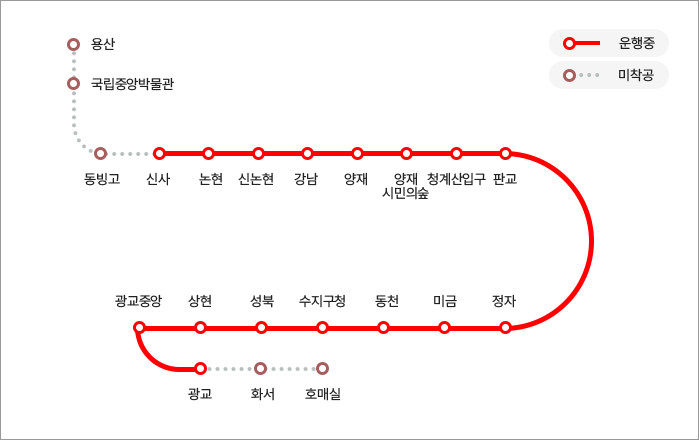
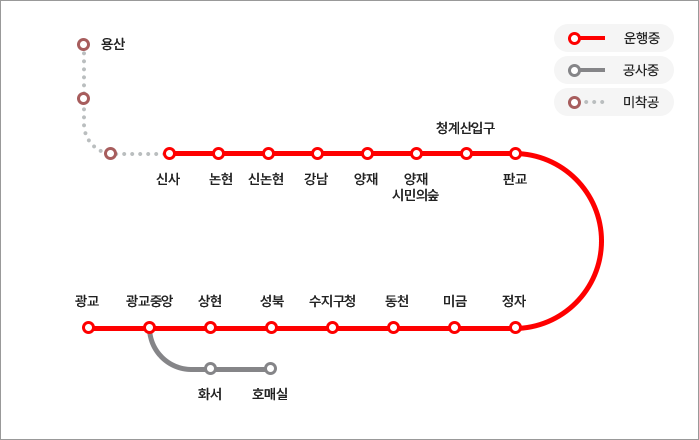
[SM260107_intro-65주년-원복] 마스터피스>신분당선: 이미지 및 문구 변경 & 영문 라인 수정

diff --git a/html/FD-01-01-05.html b/html/FD-01-01-05.html
@@ -135,7 +135,7 @@
                                 <li>
                                     <div class="tit_blue">3-2단계 구간</div>
                                     <p>
-                                        2026.01(착공 예정)<br>
+                                        착공 예정<br>
                                         용산~신사<br>
                                         (5.3km, 정거장 3개소)
                                     </p>
@@ -190,7 +190,7 @@
                                     판교, 정자를 연결하는 노선입니다. <br class="br_pc">
                                     사업비만 1조 6000억원에 이르는 대형 토목프로젝트로<br class="br_pc">
                                     준공과 동시에 소유권은 국가에 귀속되고, 운영법인인<br class="br_pc">
-                                    네오트랜스㈜가 30 년간 운영권을 확보하는 BTO방식의<br class="br_pc">
+                                    네오트랜스㈜가 30년간 운영권을 확보하는 BTO방식의<br class="br_pc">
                                     사업입니다.                                 
                                 </p>
                             
@@ -329,10 +329,9 @@
                             <div class="right">
                                 <p>
                                     한편 두산건설은 3-2단계인 용산~신사(5.3km, 정거장 3개소) 구간을
-                                    오는 26년 착공 예정이며, 광교~호매실(11.1km) 구간도 사업을 추진 중에 있습니다.
-                                    이미 개통하여 운영 중인 구간과 3-2구간 및 광교~호매실까지
+                                    착공 예정이며, 이미 개통하여 운영 중인 구간과 3-2구간 및 광교~호매실까지
                                     전 구간이 개통되면 신분당선전철은 총 연장 50km의
-                                    명실상부한 광역철도로서의 모습을 완성하였습니다. 
+                                    명실상부한 광역철도로서의 모습을 완성한다. 
                                 </p>
                             </div>
                         </section>  

diff --git a/html/en/EN-01-01-05.html b/html/en/EN-01-01-05.html
@@ -127,14 +127,14 @@
                                     <div class="tit_blue">Phase 3-1 </div>
                                     <p>
                                         2016.08~2022.05<br>
-                                        Sinsa-Gangnam<br>
+                                        Sinsa~Gangnam<br>
                                         (2.5km, 3 stops)
                                     </p>
                                 </li>
                                 <li>
                                     <div class="tit_blue">Phase 3-2 </div>
                                     <p>
-                                        2026.01(Scheduled date of commencement)<br>
+                                        Construction Scheduled<br>
                                         Yongsan~Sinsa<br>
                                         (5.3km, 3 stops)
                                     </p>
@@ -279,7 +279,7 @@
                             </div>
                             <div class="right">
                                 <p>
-                                  Meanwhile, Doosan E&C is planning to break ground in 2026 for the Phase 3-2 Project for the section between Yongsan and Sinsa (5.3 km, 3 stations), and is also promoting the section between Gwanggyo and Homaesil (11.1km). If the above-mentioned three-sector lines are all opened, the Shinbundang Line, with a total length of 50km, will become a wide-area railway that is true to its name. 
+                                    Meanwhile, Doosan E&C is scheduled to start construction on the Phase 3-2 section between Yongsan and Sinsa (5.3 km, 3 stations). When this section, together with the sections already in operation and the Gwanggyo-Homaesil section, is fully opened, the Shinbundang Line will complete its role as a true wide-area railway with a total length of 50 km.
                                 </p>
                             </div>
                         </section>  

diff --git a/css/sub.css b/css/sub.css
@@ -710,10 +710,10 @@
 .masterpiece .outline .section0 .tit_area h2 { font-size: 8rem; color: #000; font-weight: 400; margin: 1.5rem 0; }
 .masterpiece .outline .section0 .tit_area p { font-size: 2rem; color: #777; line-height: 1.7; }
 .masterpiece .outline .section0 .cont_area { border-top: 1px solid #222; border-bottom: 1px solid #e8e8e8; padding: 3.5rem 0 4rem; margin: 7.5rem 0 8rem; opacity: 0; transform: translateY(7rem); transition-duration: .3s; transition-timing-function: ease-in-out; transition-property: opacity, transform; }
-.masterpiece .outline .section0 .cont_area ul { display: flex; align-items: center; }
+.masterpiece .outline .section0 .cont_area ul { display: flex; align-items: stretch; }
 .masterpiece .outline .section0 .cont_area ul li { position: relative; flex-grow: 1; padding-left: 6rem; }
 .masterpiece .outline .section0 .cont_area ul li:first-child { padding-left: 4rem; }
-.masterpiece .outline .section0 .cont_area ul li::after { content:''; display: inline-block; width: 1px; height: 6rem; background: #e8e8e8; position: absolute; right:0rem; top:0; }
+.masterpiece .outline .section0 .cont_area ul li::after { content:''; display: inline-block; width: 1px; height: 100%; background: #e8e8e8; position: absolute; right:0rem; top:0; }
 .masterpiece .outline .section0 .cont_area ul li:last-child::after { display: none; }
 .masterpiece .outline .section0 .cont_area .tit_blue { font-size: 1.8rem; font-weight: 400; color: #005eb8; }
 .masterpiece .outline .section0 .cont_area p { font-size: 1.8rem; color: #777; margin-top: 1rem; }

diff --git a/css/en.css b/css/en.css
@@ -90,11 +90,7 @@
 
 /* Masterpiece */
 .masterpiece.en .outline .section0 .tit_area h2 { font-size: 7.5rem; }
-.masterpiece.en .outline .section0 .cont_area ul { align-items: flex-start; }
 .masterpiece.en .outline .section0 .cont_area ul li { flex: 1; }
-.mp01.en .outline .section0 .cont_area ul li::after { height: 12rem; }
-.mp02.en .outline .section0 .cont_area ul li::after { height: 10rem; }
-.mp03.en .outline .section0 .cont_area ul li::after { height: 15.5rem; }
 .mp01.en .outline .section5 .left h3 { margin-bottom: 0; }
 .mp02.en .outline .bg-green { background: linear-gradient(to bottom, #f2faf6 1515px, #fff 1516px, #fff 100%); }
 .mp03.en .outline .section1 h3 { display: block; position: relative; margin-bottom: 6rem; white-space: normal; }
